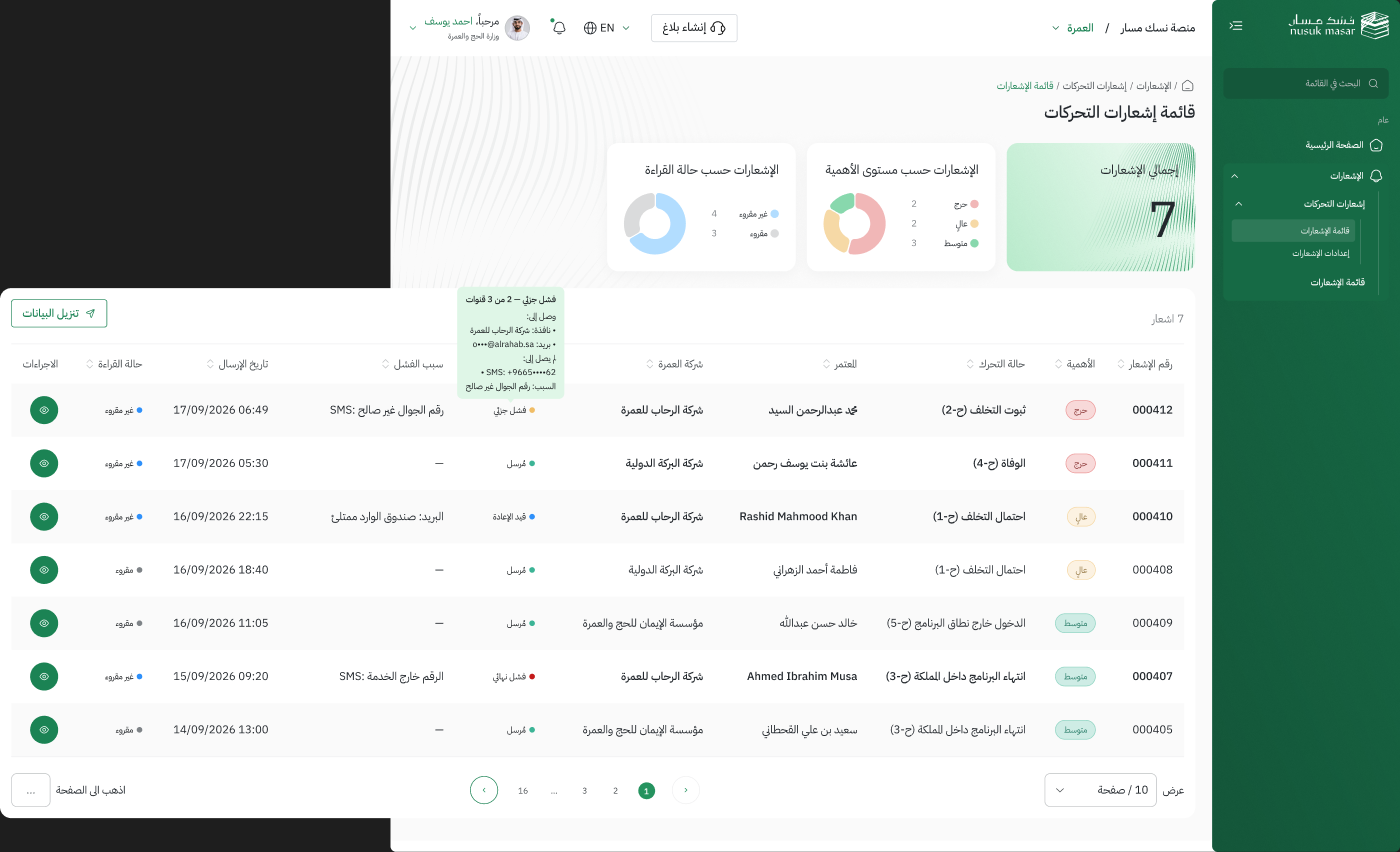
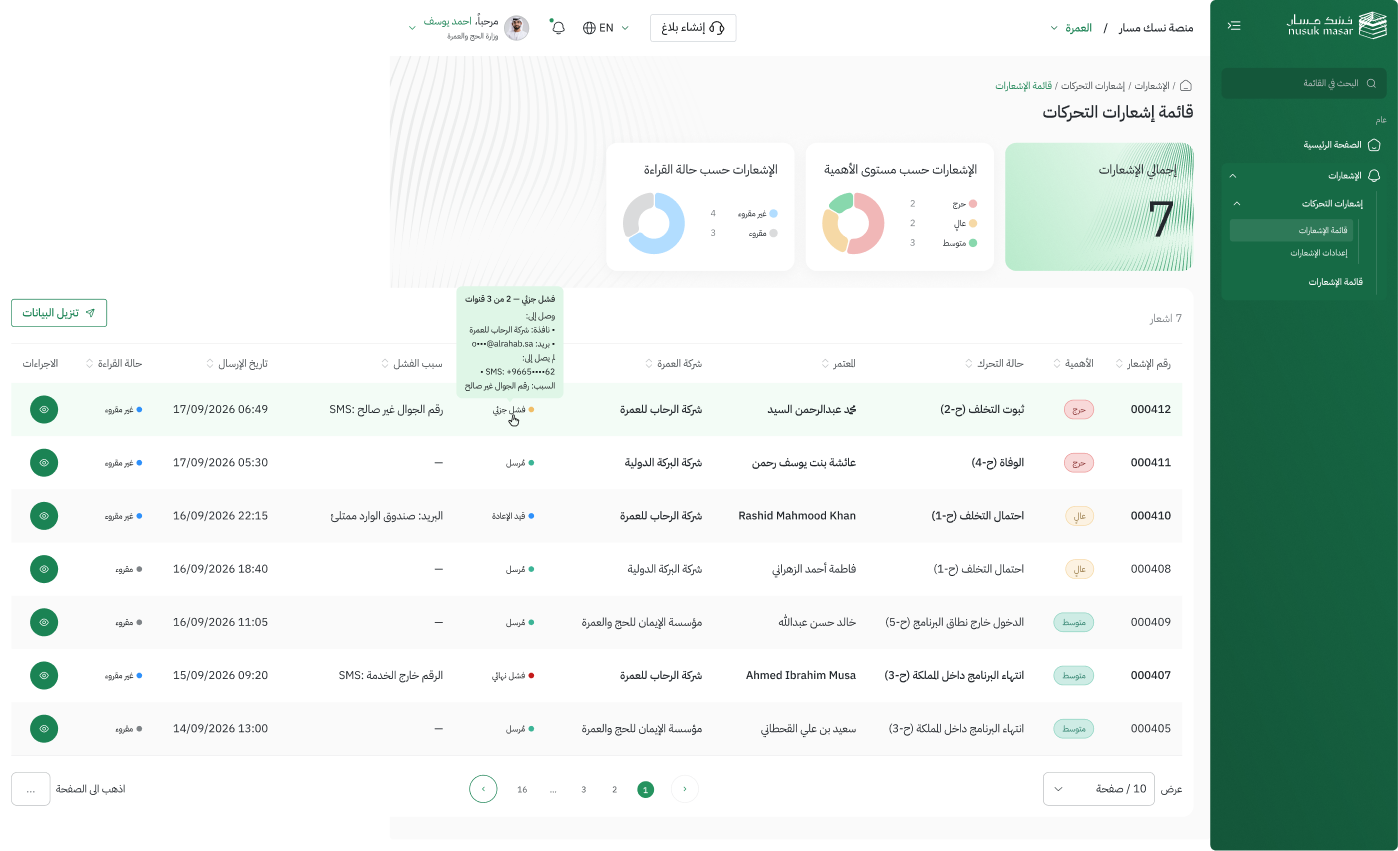
Hover option chosen: hovered row state on the merged list
Claude-Session: https://claude.ai/code/session_01CyctH4WFBszWbBNkvnfQuz

diff --git a/CLAUDE.md b/CLAUDE.md
@@ -166,6 +166,13 @@ All four libraries are published and reachable through `search_design_system`.
     القناة · المستلم · النتيجة · تاريخ إرسال الإشعار · سبب الفشل, 3 rows for 000412) / rows_rest; arrow-down-01 chevrons
     (row 1 rotated up) left of each send result. Previews `previews/merged-list/A-default.png`, `B-hover-tooltip.png`,
     `C-expanded-row.png`. The user edited the cards in v2 meanwhile (now total 7 + two donuts) — leave them.
+  - Pattern search (user asked where hover/expand exist): tooltips exist only on charts (green «View List» `4387:24000`/`4393:15632`,
+    «Reception / Company») and on a disabled checkbox in Umrah «Tafweej / Request Tafweej / step 135» (`176:60877`, DS tooltip
+    direction=up, «لا يمكن التعديل في هذة الخطوة»). No expandable table row anywhere: not in the files, not in Nusuk Masar
+    (`columns`/`column`), not in Platforms Code (`Table Row` has only Hovered/Selected). **User chose B (hover).**
+    B `4616:18` renamed «List v2 — B (المعتمد)…»: row 1 cells + 01_data_button filled with Nusuk `Colors/Green/SA 50`
+    (`2f5bf0c4…`) as the hovered row, Icons `touch-09` hand cursor on «فشل جزئي», tooltip kept on top. C renamed
+    «(بديل غير معتمد)» and left in place.
   - Next (not done): sub-status in حالة التحرك (needs the business list of sub-statuses), cards → pie charts (current cards
     contradict: totals 12 vs 7, critical 5/12 vs 2, read 7/12 vs 3).
 - **Rule (user):** copy how the existing screens are built (clone their cards, table header, columns, and
